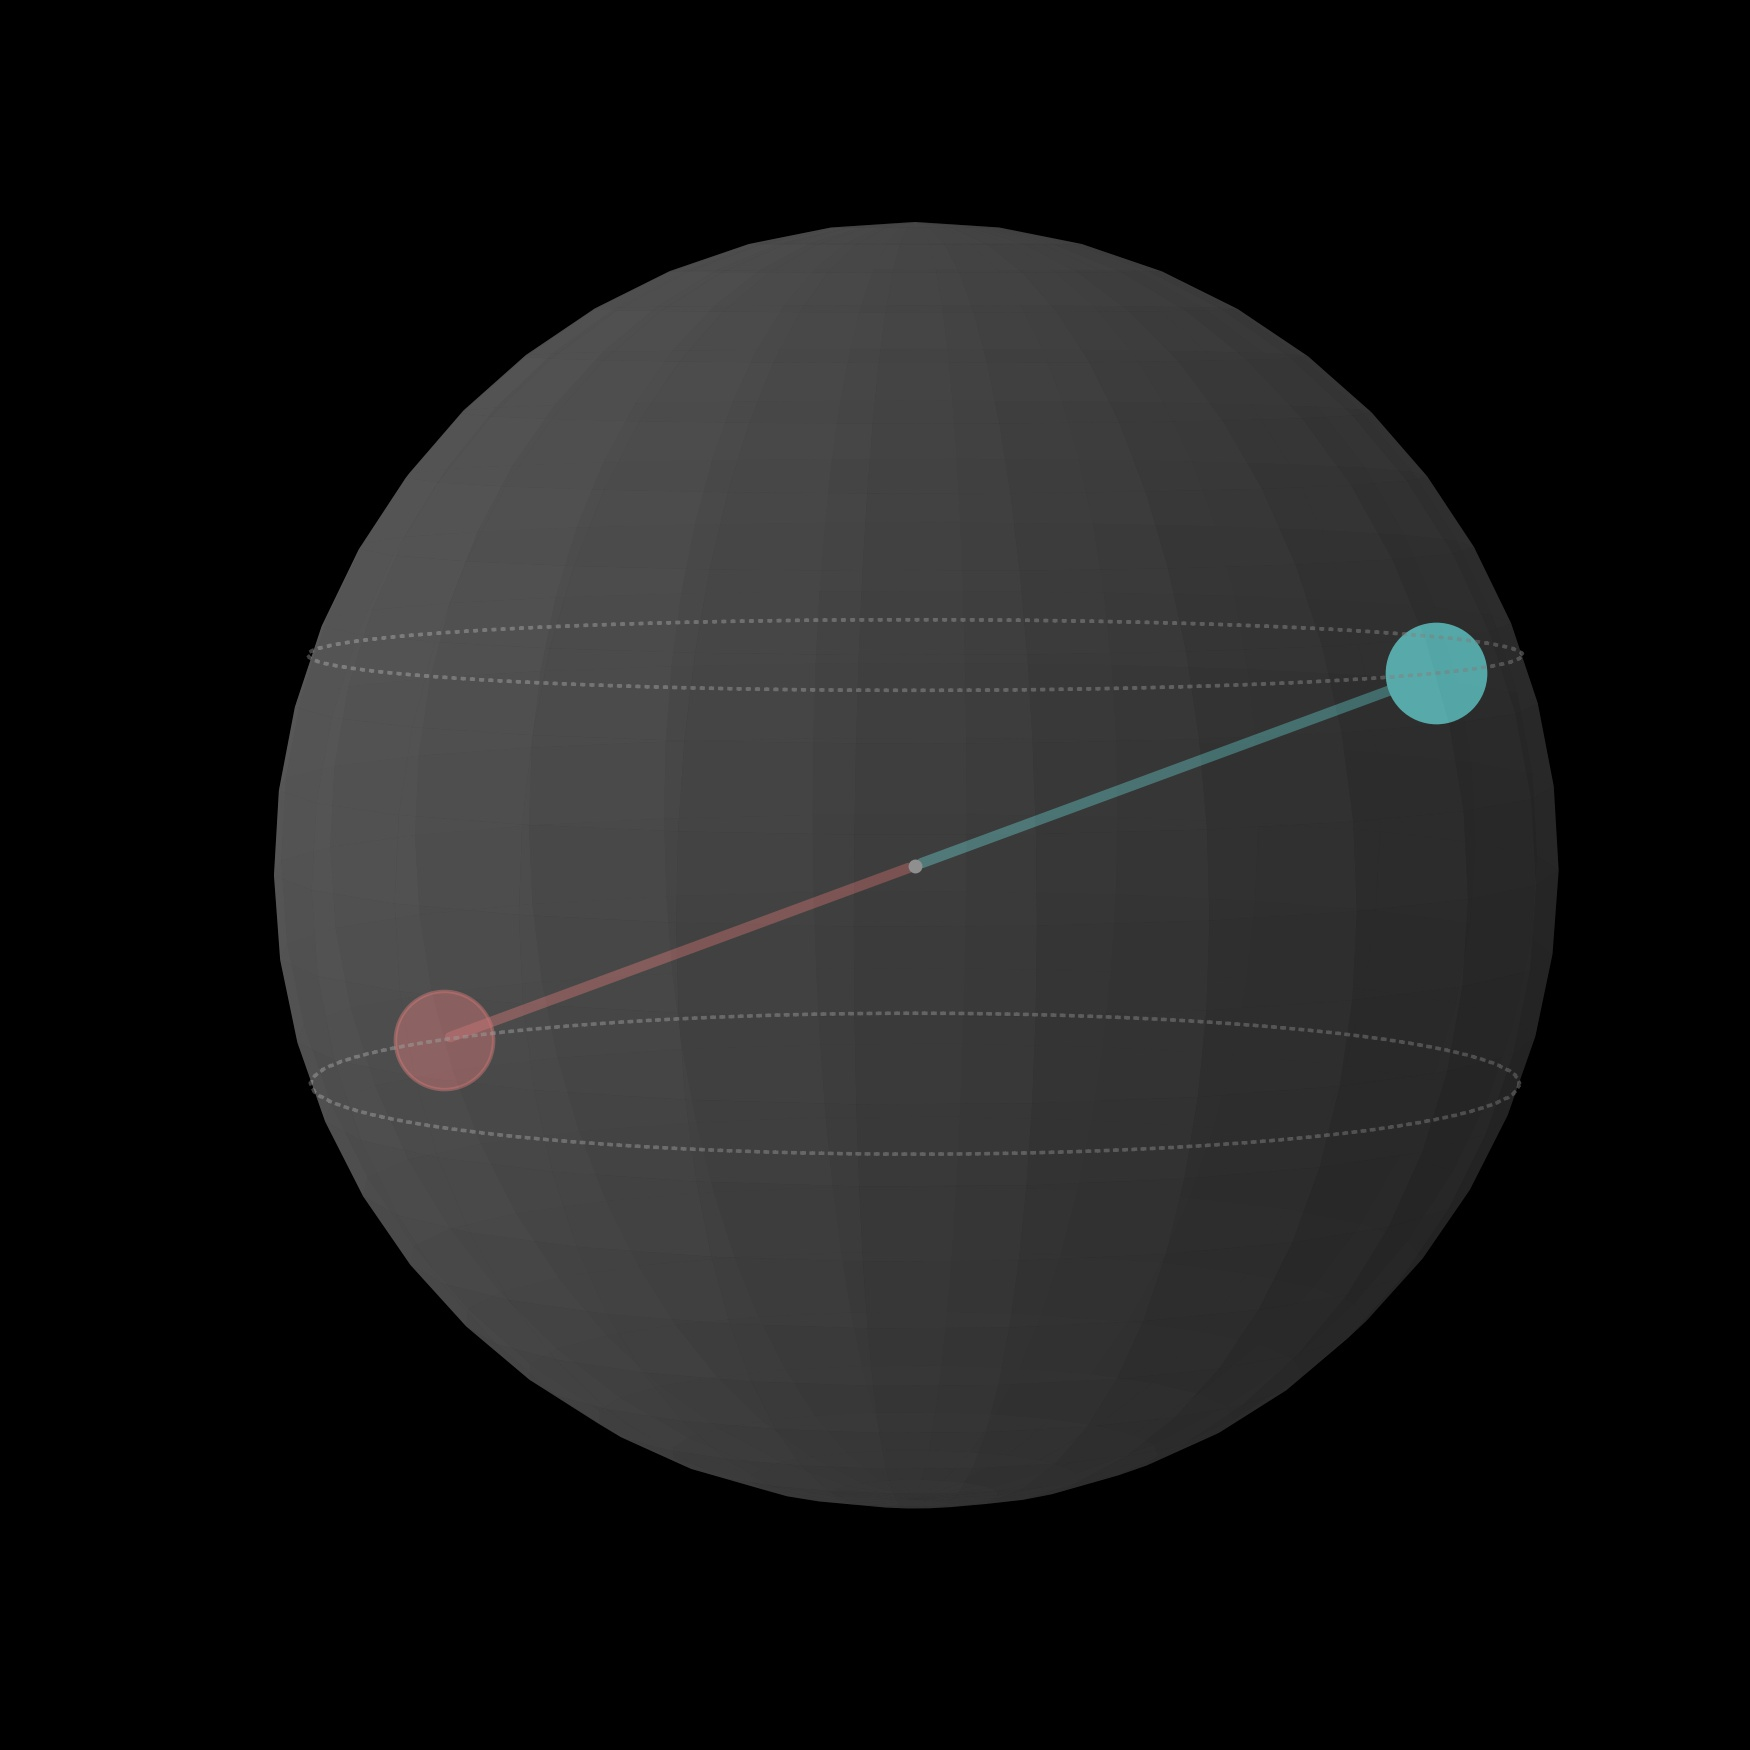
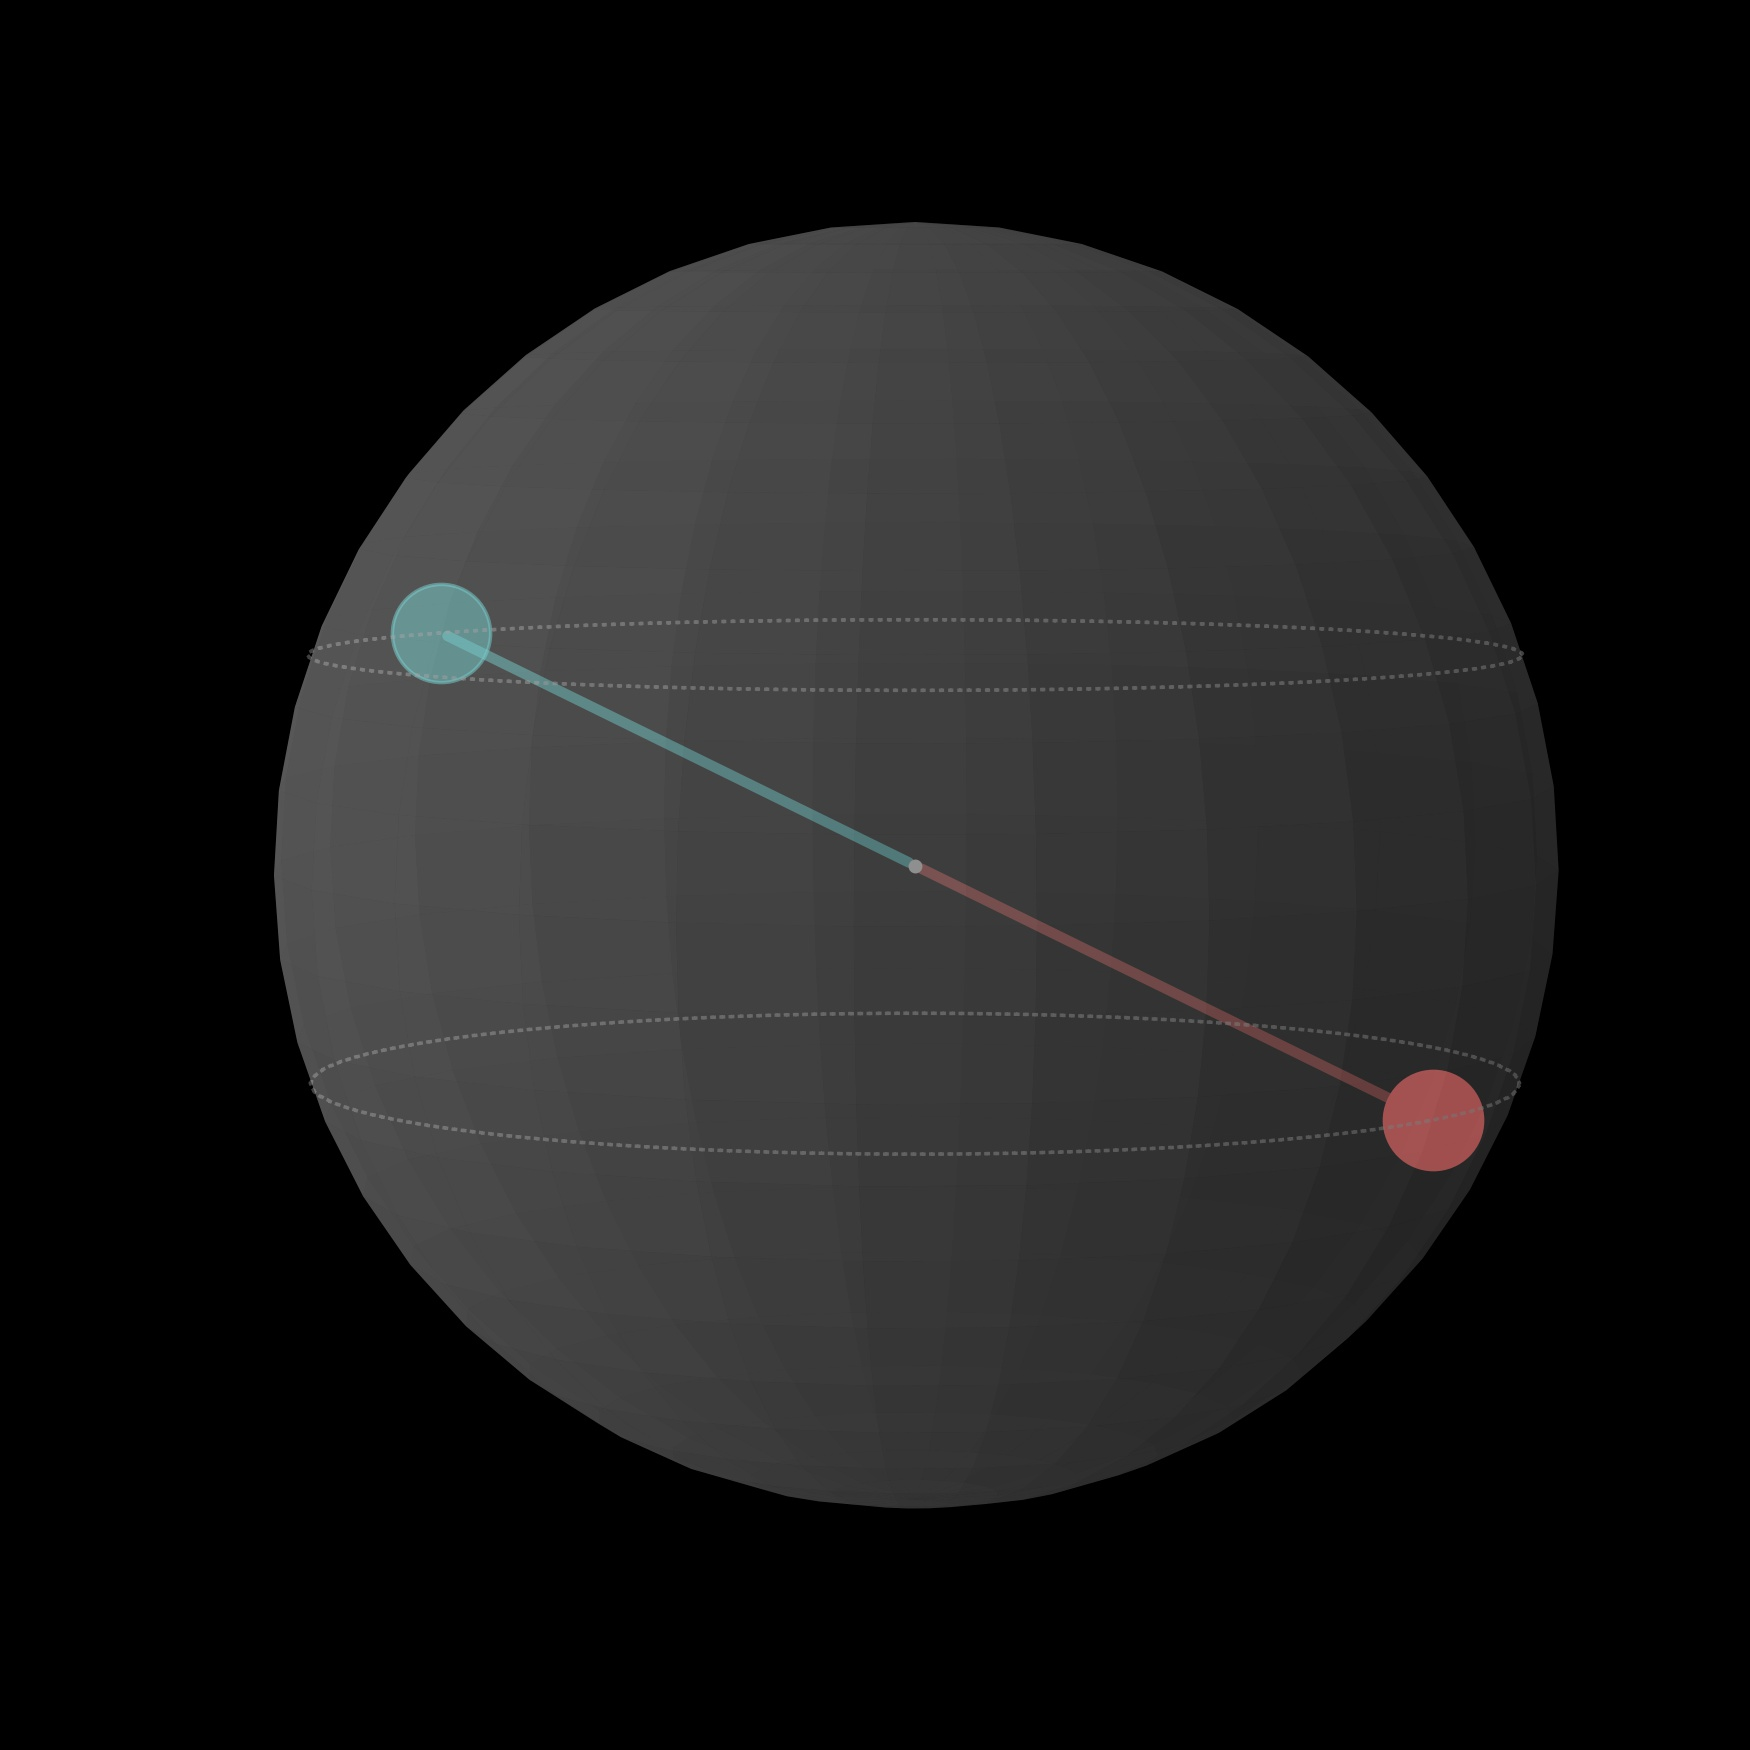
Fixed position of images (left-right, front-back)

diff --git a/QPi_Library/build/lib/qpi_lib/qsphere_funcs.py b/QPi_Library/build/lib/qpi_lib/qsphere_funcs.py
@@ -134,9 +134,9 @@ def rotate(x,y,z,lado="FRONT"):
     nuevoz = z
     if lado != "FRONT":
         if x == 0.0 or y == 0.0:  #If x or y are cero it's because they're on the axis. Si x o y es cero es porque estan en el eje
-            if lado == "RIGHT":
-                if y == 0:  nuevoy = nuevoy * (-1)
             if lado == "LEFT":
+                if y == 0:  nuevoy = nuevoy * (-1)
+            if lado == "RIGHT":
                 if x == 0:  nuevox = nuevox * (-1)
             if lado == "BACK":
                 nuevox = x
@@ -146,14 +146,14 @@ def rotate(x,y,z,lado="FRONT"):
             return [nuevox,nuevoy,nuevoz]
         else:
             
-            if lado == "RIGHT":
+            if lado == "LEFT":
                 if (x > 0 and y > 0) or (x < 0 and y < 0): 
                     nuevoy = nuevoy * (-1)
                 if x < 0 and y > 0:  #2do Cuadrante
                     nuevoy = nuevoy * (-1)
                 if x > 0 and y < 0:  #4to Cuadrante
                     nuevox = nuevox * (-1)
-            if lado == "LEFT":
+            if lado == "RIGHT":
                 if (x > 0 and y > 0) or (x < 0 and y < 0): 
                     nuevox = nuevox * (-1)
                 if x < 0 and y > 0:  #2do Cuadrante
@@ -388,12 +388,12 @@ def plot_state_qsphere_mod(quantum_circuit, figsize=None, ax=None, show_state_la
             plt.close(fig)
         return fig
 
-def makeHologram(input_up,input_down,input_right,input_left,scale=0.5,scaleR=4,distance=0):
+def makeHologram(input_front,input_back,input_right,input_left,scale=0.5,scaleR=4,distance=0):
     '''
         Create 3D 4-sided hologram from 4 images (must have equal dimensions)
         Args:
-            input_up (jpg, png, ...): frontal image
-            input_down (jpg, png, ...): back-side image
+            input_front (jpg, png, ...): frontal image
+            input_back (jpg, png, ...): back-side image
             input_right (jpg, png, ...): right-side image
             input_left (jpg, png, ...): left-side image
             scale (float): scale up or down the images by this factor
@@ -403,25 +403,25 @@ def makeHologram(input_up,input_down,input_right,input_left,scale=0.5,scaleR=4,d
         Returns: hologram as a numpy array
     '''
     
-    height = int((scale*input_up.shape[0]))
-    width = int((scale*input_up.shape[1]))
+    height = int((scale*input_front.shape[0]))
+    width = int((scale*input_front.shape[1]))
     
-    image = cv2.flip(input_up, 1)
-    input_down = cv2.flip(input_down, 1)
+    input_front = cv2.flip(input_front, 1)
+    input_back = cv2.flip(input_back, 1)
     input_right = cv2.flip(input_right, 1)
     input_left = cv2.flip(input_left, 1)
     
-    image = cv2.resize(image, (width, height), interpolation = cv2.INTER_CUBIC)
-    input_down = cv2.resize(input_down, (width, height), interpolation = cv2.INTER_CUBIC)
+    input_front = cv2.resize(input_front, (width, height), interpolation = cv2.INTER_CUBIC)
+    input_back = cv2.resize(input_back, (width, height), interpolation = cv2.INTER_CUBIC)
     input_right = cv2.resize(input_right, (width, height), interpolation = cv2.INTER_CUBIC)
     input_left = cv2.resize(input_left, (width, height), interpolation = cv2.INTER_CUBIC)
     
-    up = image.copy()
-    down = rotate_bound(input_down.copy(),180)
+    up = input_front.copy()
+    down = rotate_bound(input_back.copy(),180)
     right = rotate_bound(input_right.copy(), 90)
     left = rotate_bound(input_left.copy(), 270)
     
-    hologram = np.zeros([ int(max(image.shape)*scaleR+distance),int(max(image.shape)*scaleR+distance),3], image.dtype)
+    hologram = np.zeros([ int(max(input_front.shape)*scaleR+distance),int(max(input_front.shape)*scaleR+distance),3], input_front.dtype)
     print("hologram",hologram.shape)
     center_x = floor((hologram.shape[0])/2)
     
@@ -466,11 +466,11 @@ def join_images():
     # Joins the 4 images of the 4 sides, previously exported into the figures folder, into a single jpg image called hologram.
     # Returns: "hologram.jpg" image in the figures folder
 
-    up = cv2.imread("figures/BACK.jpg")
-    down = cv2.imread("figures/FRONT.jpg")
+    front = cv2.imread("figures/FRONT.jpg")
+    back = cv2.imread("figures/BACK.jpg")
     right = cv2.imread("figures/RIGHT.jpg")
     left = cv2.imread("figures/LEFT.jpg")
-    holo = makeHologram(up,down,right,left,scale=1.0,scaleR=2.52)
+    holo = makeHologram(front,back,right,left,scale=1.0,scaleR=2.52)
     cv2.imwrite("figures/hologram.jpg",holo)
 
 

diff --git a/QPi_Library/qpi_lib/qsphere_funcs.py b/QPi_Library/qpi_lib/qsphere_funcs.py
@@ -134,9 +134,9 @@ def rotate(x,y,z,lado="FRONT"):
     nuevoz = z
     if lado != "FRONT":
         if x == 0.0 or y == 0.0:  #If x or y are cero it's because they're on the axis. Si x o y es cero es porque estan en el eje
-            if lado == "RIGHT":
-                if y == 0:  nuevoy = nuevoy * (-1)
             if lado == "LEFT":
+                if y == 0:  nuevoy = nuevoy * (-1)
+            if lado == "RIGHT":
                 if x == 0:  nuevox = nuevox * (-1)
             if lado == "BACK":
                 nuevox = x
@@ -146,14 +146,14 @@ def rotate(x,y,z,lado="FRONT"):
             return [nuevox,nuevoy,nuevoz]
         else:
             
-            if lado == "RIGHT":
+            if lado == "LEFT":
                 if (x > 0 and y > 0) or (x < 0 and y < 0): 
                     nuevoy = nuevoy * (-1)
                 if x < 0 and y > 0:  #2do Cuadrante
                     nuevoy = nuevoy * (-1)
                 if x > 0 and y < 0:  #4to Cuadrante
                     nuevox = nuevox * (-1)
-            if lado == "LEFT":
+            if lado == "RIGHT":
                 if (x > 0 and y > 0) or (x < 0 and y < 0): 
                     nuevox = nuevox * (-1)
                 if x < 0 and y > 0:  #2do Cuadrante
@@ -388,12 +388,12 @@ def plot_state_qsphere_mod(quantum_circuit, figsize=None, ax=None, show_state_la
             plt.close(fig)
         return fig
 
-def makeHologram(input_up,input_down,input_right,input_left,scale=0.5,scaleR=4,distance=0):
+def makeHologram(input_front,input_back,input_right,input_left,scale=0.5,scaleR=4,distance=0):
     '''
         Create 3D 4-sided hologram from 4 images (must have equal dimensions)
         Args:
-            input_up (jpg, png, ...): frontal image
-            input_down (jpg, png, ...): back-side image
+            input_front (jpg, png, ...): frontal image
+            input_back (jpg, png, ...): back-side image
             input_right (jpg, png, ...): right-side image
             input_left (jpg, png, ...): left-side image
             scale (float): scale up or down the images by this factor
@@ -403,25 +403,25 @@ def makeHologram(input_up,input_down,input_right,input_left,scale=0.5,scaleR=4,d
         Returns: hologram as a numpy array
     '''
     
-    height = int((scale*input_up.shape[0]))
-    width = int((scale*input_up.shape[1]))
+    height = int((scale*input_front.shape[0]))
+    width = int((scale*input_front.shape[1]))
     
-    image = cv2.flip(input_up, 1)
-    input_down = cv2.flip(input_down, 1)
+    input_front = cv2.flip(input_front, 1)
+    input_back = cv2.flip(input_back, 1)
     input_right = cv2.flip(input_right, 1)
     input_left = cv2.flip(input_left, 1)
     
-    image = cv2.resize(image, (width, height), interpolation = cv2.INTER_CUBIC)
-    input_down = cv2.resize(input_down, (width, height), interpolation = cv2.INTER_CUBIC)
+    input_front = cv2.resize(input_front, (width, height), interpolation = cv2.INTER_CUBIC)
+    input_back = cv2.resize(input_back, (width, height), interpolation = cv2.INTER_CUBIC)
     input_right = cv2.resize(input_right, (width, height), interpolation = cv2.INTER_CUBIC)
     input_left = cv2.resize(input_left, (width, height), interpolation = cv2.INTER_CUBIC)
     
-    up = image.copy()
-    down = rotate_bound(input_down.copy(),180)
+    up = input_front.copy()
+    down = rotate_bound(input_back.copy(),180)
     right = rotate_bound(input_right.copy(), 90)
     left = rotate_bound(input_left.copy(), 270)
     
-    hologram = np.zeros([ int(max(image.shape)*scaleR+distance),int(max(image.shape)*scaleR+distance),3], image.dtype)
+    hologram = np.zeros([ int(max(input_front.shape)*scaleR+distance),int(max(input_front.shape)*scaleR+distance),3], input_front.dtype)
     print("hologram",hologram.shape)
     center_x = floor((hologram.shape[0])/2)
     
@@ -466,11 +466,11 @@ def join_images():
     # Joins the 4 images of the 4 sides, previously exported into the figures folder, into a single jpg image called hologram.
     # Returns: "hologram.jpg" image in the figures folder
 
-    up = cv2.imread("figures/BACK.jpg")
-    down = cv2.imread("figures/FRONT.jpg")
+    front = cv2.imread("figures/FRONT.jpg")
+    back = cv2.imread("figures/BACK.jpg")
     right = cv2.imread("figures/RIGHT.jpg")
     left = cv2.imread("figures/LEFT.jpg")
-    holo = makeHologram(up,down,right,left,scale=1.0,scaleR=2.52)
+    holo = makeHologram(front,back,right,left,scale=1.0,scaleR=2.52)
     cv2.imwrite("figures/hologram.jpg",holo)
 
 

diff --git a/QPi_Library/setup.py b/QPi_Library/setup.py
@@ -2,7 +2,7 @@ from setuptools import find_packages, setup
 setup(
     name='QPi_lib',
     packages=find_packages(include=['qpi_lib']),
-    version='0.2.6',
+    version='0.2.7',
     description='QPi project',
     author='QPi Team',
     license='MIT',
